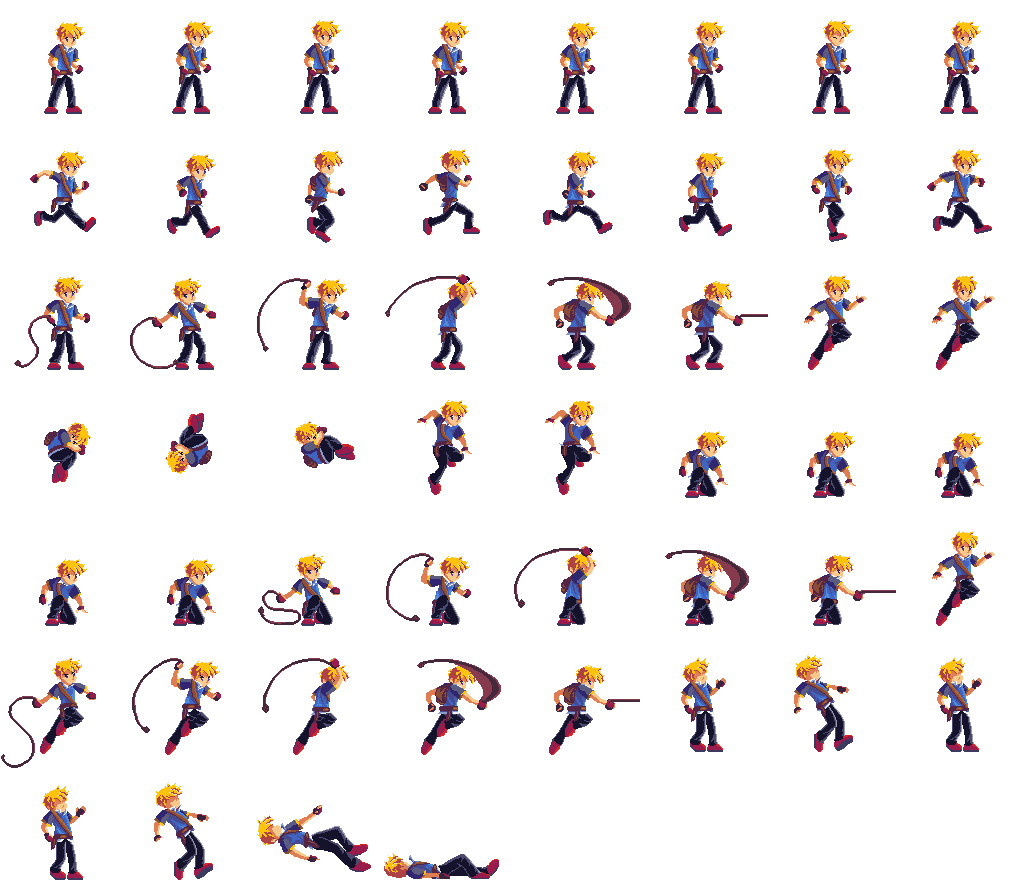
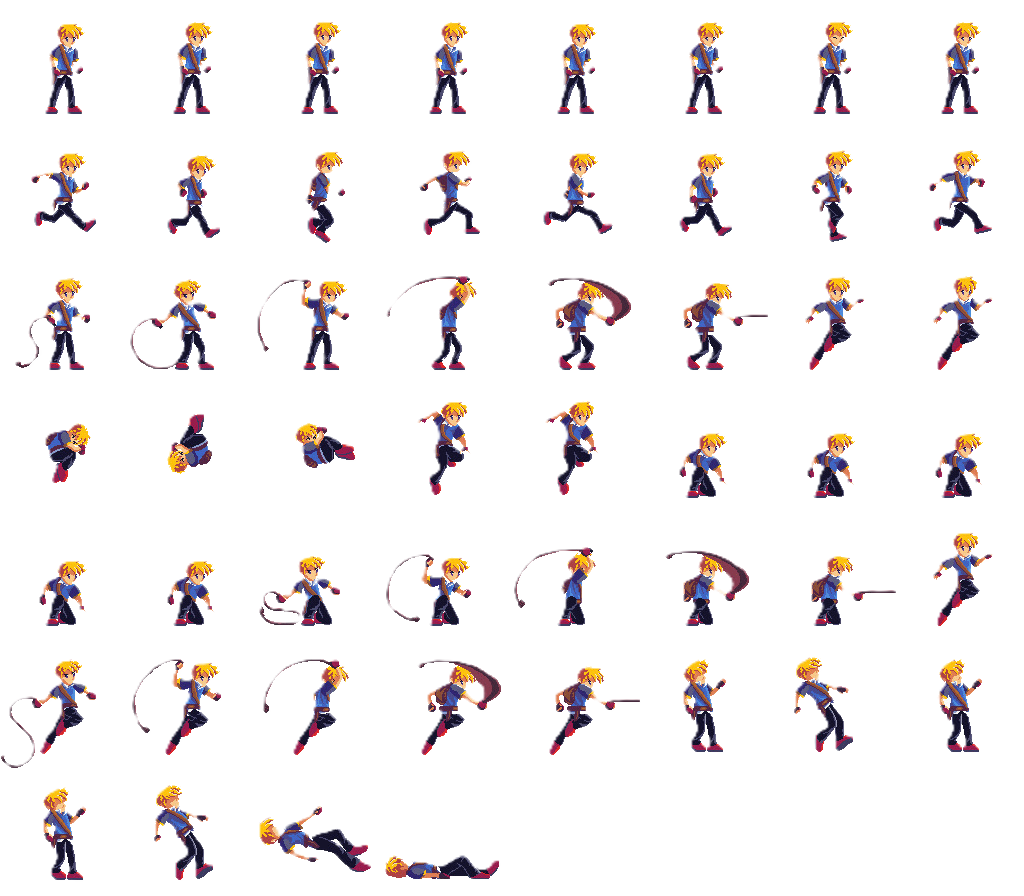
Edit some documents

diff --git a/src/main/java/com/findselfback/Model/Player.java b/src/main/java/com/findselfback/Model/Player.java
@@ -9,6 +9,7 @@ import lombok.Data;
 
 import java.awt.*;
 import java.awt.event.KeyEvent;
+import java.awt.image.BufferedImage;
 import java.util.Vector;
 
 import static com.findselfback.Model.Constant.Animation.*;
@@ -21,32 +22,34 @@ public class Player extends Entity {
     public Player(GamePlayPanel gamePlayPanel, String spritePath, KeyHandle keyHandle){
         thisGamePlayPanel = gamePlayPanel;
         thisKeyHandle = keyHandle;
-        this.sprite = new SpriteSheet(spritePath, 128, 128);
-
+        this.sprite = new SpriteSheet(spritePath, thisGamePlayPanel.ORIGINAL_TILE_SIZE, thisGamePlayPanel.ORIGINAL_TILE_SIZE);
 
         init();
     }
-
     private void init(){
         //Set location and speed
         this.x = 200;
         this.y = 200;
-        this.speed = 4;
+        this.speed = 1f;
 
+        loadAnimation();
+    }
+
+    private void loadAnimation(){
         //Set sprite
         //--Running animation
         Vector<Coordinate2D> coordinate2DVector = new Vector<>();
-        for(int i = 0; i < 8; i++)
-        coordinate2DVector.add(new Coordinate2D(i*128,129));
+        for(int i = 0; i < 13; i++)
+            coordinate2DVector.add(new Coordinate2D(i*32,32));
         sprite.createSprite(RUNNING,coordinate2DVector);
         //--Idle animation
         coordinate2DVector = new Vector<>();
-        for(int i = 0; i < 8; i++)
-            coordinate2DVector.add(new Coordinate2D(i*128,0));
+        for(int i = 0; i < 11; i++)
+            coordinate2DVector.add(new Coordinate2D(i*32,0));
         sprite.createSprite(IDLE,coordinate2DVector);
         sprite.setCurrentSprite(IDLE);
 
-        sprite.setDelayTime(5);
+        sprite.setDelayTime(2);
     }
 
 
@@ -64,26 +67,10 @@ public class Player extends Entity {
                 y+= speed;
             }
             if(thisKeyHandle.leftPressed){
-//                thisKeyHandle.setLastPressed(KeyEvent.VK_A);
-                sprite.nextFrame(true);
-                sprite.setCurrentSprite(RUNNING);
                 x-= speed;
             }
             if(thisKeyHandle.rightPressed){
-//                thisKeyHandle.setLastPressed(KeyEvent.VK_D);
-                sprite.setCurrentSprite(RUNNING);
-                sprite.nextFrame(false);
                 x+= speed;
-            }
-        } else{
-            sprite.setCurrentSprite(IDLE);
-            if(thisKeyHandle.getLastPressed() == KeyEvent.VK_A){
-                PrintColor.debug(PrintColor.CYAN_BRIGHT,"Player","update","last key = " + thisKeyHandle.getLastPressed());
-                sprite.nextFrame(true);
-            }
-            else {
-                PrintColor.debug(PrintColor.RED_BRIGHT,"Player","update","last key = " + thisKeyHandle.getLastPressed());
-                sprite.nextFrame(false);
             }
         }
 
@@ -92,8 +79,29 @@ public class Player extends Entity {
     @Override
     public void paint(Graphics g) {
         Graphics2D graphics2D = (Graphics2D) g.create();
-        graphics2D.drawImage(sprite.getCurrentSprite(),x,y,sprite.getTileWidth(),sprite.getTileHeight(),null);
+//                PrintColor.debug(PrintColor.CYAN_BRIGHT, "Player", "update", "x: " + x + " | y: " + y);
+
+        if (!thisKeyHandle.isNoPressed()) {
+            if (thisKeyHandle.leftPressed) {
+                sprite.nextFrame(true);
+                sprite.setCurrentSprite(RUNNING);
+            }
+            if (thisKeyHandle.rightPressed) {
+                sprite.setCurrentSprite(RUNNING);
+                sprite.nextFrame(false);
+            }
+        } else {
+            sprite.setCurrentSprite(IDLE);
+            if (thisKeyHandle.getLastPressed() == KeyEvent.VK_A) {
+//                PrintColor.debug(PrintColor.CYAN_BRIGHT, "Player", "update", "last key = " + thisKeyHandle.getLastPressed());
+                sprite.nextFrame(true);
+            } else {
+//                PrintColor.debug(PrintColor.RED_BRIGHT, "Player", "update", "last key = " + thisKeyHandle.getLastPressed());
+                sprite.nextFrame(false);
+            }
+        }
+
+
+        graphics2D.drawImage(sprite.getCurrentSprite(), (int)x, (int)y, (int)(sprite.getTileWidth()*thisGamePlayPanel.SCALE), (int)(sprite.getTileHeight()*thisGamePlayPanel.SCALE), null);
     }
-
-
 }

diff --git a/src/main/java/com/findselfback/View/GamePlayPanel.java b/src/main/java/com/findselfback/View/GamePlayPanel.java
@@ -34,8 +34,9 @@ public class GamePlayPanel extends JPanel implements Runnable{
     private final GameFrame thisGameFrame;
 
     //originalTileSize is a default variable of "game's pixel" (block)
-    private final int ORIGINAL_TILE_SIZE = 128;
-    private final double SCALE = 0.5;
+    public final int ORIGINAL_TILE_SIZE = 32;
+    public final double SCALE = 2; //scaling value
+
 
     //the tile size after scaling
     public final int TILE_SIZE = (int)(ORIGINAL_TILE_SIZE * SCALE); //128*3 = 384px ~ 1 block pixel of game;
@@ -44,9 +45,10 @@ public class GamePlayPanel extends JPanel implements Runnable{
     public final int SCREEN_WIDTH = TILE_SIZE * MAX_SCREEN_COLUMN;
     public final int SCREEN_HEIGHT = TILE_SIZE * MAX_SCREEN_ROW;
     public final int FPS = 60;
+    public final int UPS = 200;
 
     private KeyHandle keyHandle = new KeyHandle();
-    private Player player = new Player(this,"src/main/resources/PlayerSheet.png", keyHandle);
+    private Player player = new Player(this,"src/main/resources/PlayerSheet2.png", keyHandle);
     private Thread gameThread;
 
     private FPSCounter fpsCounter;
@@ -69,6 +71,7 @@ public class GamePlayPanel extends JPanel implements Runnable{
 
         startGameThread();
     }
+
     public void startGameThread(){
         gameThread = new Thread(this);
         gameThread.start();
@@ -77,14 +80,43 @@ public class GamePlayPanel extends JPanel implements Runnable{
     public void run() {
         PrintColor.debug(PrintColor.YELLOW_UNDERLINED,"GamePlayPanel","run","Game is running...");
         double drawInterval = 1000000000/FPS; //Average time of a frame in theory
-        double nextDrawTime = System.nanoTime() + drawInterval; //The next time we wil draw a frame base on theory
+        double updateInterval = 1000000000/UPS;
+
+        double deltaFrame = 0;
+        double deltaUpdate  = 0;
+        double lastCheck = System.currentTimeMillis();
+        double previousTime = 0;
+        double frames = 0, updates = 0;
+
         while (true){
-            double firstTime = System.nanoTime();
-            update(); //update
-            repaint(); //paint
+            double currentTime = System.nanoTime();
+
+            deltaUpdate += (currentTime - previousTime) / updateInterval;
+            deltaFrame += (currentTime - previousTime) / drawInterval;
+            previousTime = currentTime;
 
 
-            try{
+            if(deltaUpdate >= 1) {
+                update();
+                updates++;
+                deltaUpdate--;
+            }
+
+            if(deltaFrame >= 1) {
+                repaint();
+                frames++;
+                deltaFrame--;
+                fpsCounter.interrupt();
+            }
+
+            if(System.currentTimeMillis() - lastCheck >= 1000){
+                lastCheck +=1000;
+                PrintColor.debug(PrintColor.CYAN_BRIGHT,"GamePlayPanel","run","FPS: " + frames + " | UPS: " + updates);
+                frames = 0;
+                updates = 0;
+            }
+
+
 
                 //Explain how does this loop work?
                 //Following computer's theory, average drawing time of a frame is equal 1000000000(nano seconds)/FPS
@@ -95,19 +127,8 @@ public class GamePlayPanel extends JPanel implements Runnable{
                 // a distance from present to nextDrawTime (delay the remainingTime);
                 // But else if remainingTime < 0, that means the computer is so weak and that haven't process data
                 //yet baut following the theory it has to draw. so we will not delay and the screen will be lagged
-                double remainingTime = nextDrawTime - System.nanoTime();
-                if(remainingTime < 0){
-                    remainingTime = 0;
-                }
-                Thread.sleep((long) (remainingTime/1000000));
-                nextDrawTime += drawInterval;
-                PrintColor.println(PrintColor.BLUE_BOLD, "FPS: " + fpsCounter.fps());
-                fpsCounter.interrupt();
-            }
-            catch (InterruptedException e) {
-                throw new RuntimeException(e);
-            }
-        }
+
+    }
     }
 
     public void update(){

diff --git a/src/main/java/com/findselfback/Model/Animation/SpriteSheet.java b/src/main/java/com/findselfback/Model/Animation/SpriteSheet.java
@@ -26,6 +26,22 @@ public class SpriteSheet {
     private int currentTime;
     private int tileWidth, tileHeight;
     private int frameIndex;
+
+    /**
+     * SpriteSheet dùng để đơn giản hóa cài đặt asset cho nhân vật
+     * tham số bao gồm "đường dẫn tới sprite sheet", tile width, tile height.
+     * Cách sử dụng:
+     * - Tạo ra một đối tượng SpriteSheet;
+     * - Tạo ra một đối tượng Vector<Coordinate2D>
+     * - Thêm vào đối tượng vector trên các tọa độ của frame trong animation
+     * - Sử dụng hàm createSprite(int spriteKey, Vector<Coordinate2>) để tạo ra một animation mới
+     * - Sử dụng hàm setDelayTime(int delayTime) để tùy chỉnh thời gian một frame chay
+     * - Sử dụng hàm setCurrentSprite(int spriteKey) để gọi animation cần chạy
+     * - Sử dụng hàm nextFrame(bool isFlip) để chuyển qua frame tiếp theo của animation đã đặt
+     * @param assetSheetPath
+     * @param w
+     * @param h
+     */
     public SpriteSheet(String assetSheetPath, int w, int h){
         try {
             this.assetSheet = ImageIO.read(new File(assetSheetPath));
@@ -39,7 +55,7 @@ public class SpriteSheet {
     }
 
     /**
-     * Set sprite by sprite name
+     * Đặt animation hiện tại bằng sprite key
      * @param spriteKey
      */
     public void setCurrentSprite(int spriteKey){
@@ -57,7 +73,8 @@ public class SpriteSheet {
     }
 
     /**
-     * Skip current frame and set current sprite to next sprite
+     * Bỏ qua frame hiện tại và chuyển qua frame tiếp theo của animation.
+     * Nếu tham số isFlip = true thì frame sẽ được lật theo phương thẳng đứng, ngược lại không lật
      */
     public void nextFrame(boolean isFlip){
         if(currentTime >= delayTime){
@@ -77,6 +94,7 @@ public class SpriteSheet {
 
     /**
      * Create a new sprite (animation), for example walking, idle, running, attacking...
+     * Thêm một animation vào sprite sheet, ví dụ như ĐI, ĐỨNG YÊN, CHẠY, TẤN CÔNG...
      *
      * @param spriteKey
      */
@@ -88,7 +106,7 @@ public class SpriteSheet {
     }
 
     /**
-     * Remove a sprite by sprite name
+     * Loại bỏ một animation ra khỏi sprite sheet bằng sprite key
      * @param spriteKey
      */
     public void removeSprite(int spriteKey){
@@ -96,8 +114,8 @@ public class SpriteSheet {
     }
 
     /**
-     * Add a frame to sprite;
-     * return true if exist sprite name, else return false
+     * Thêm một frame vào animation
+     * Trả về true nếu animation tồn tại và thêm thành công, trả về false nếu animation không tồn tại
      * @param spriteKey
      * @param spriteCoordinate
      * @return
@@ -112,7 +130,7 @@ public class SpriteSheet {
     }
 
     /**
-     * Remove a frame from sprite coordinated vector containing your frame.
+     * Loại bỏ một frame ra khỏi animation
      * @param spriteKey
      * @param spriteIndex
      * @return true if removing is completed, return false if the sprite map have

diff --git a/src/main/java/com/findselfback/Model/Abstract/Entity.java b/src/main/java/com/findselfback/Model/Abstract/Entity.java
@@ -8,8 +8,8 @@ import java.awt.*;
 
 @Data
 public abstract class Entity {
-    public int x,y;
-    public int speed;
+    public float x,y;
+    public float speed;
 
 
     public abstract void update();
